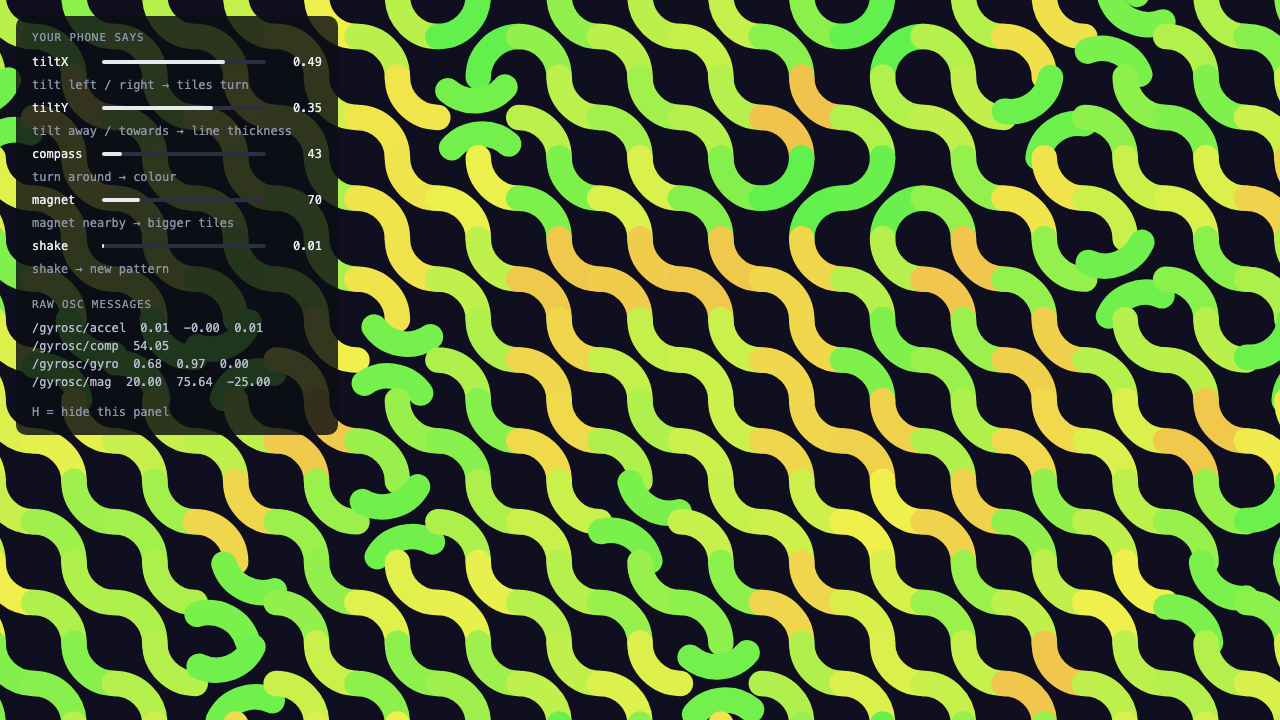
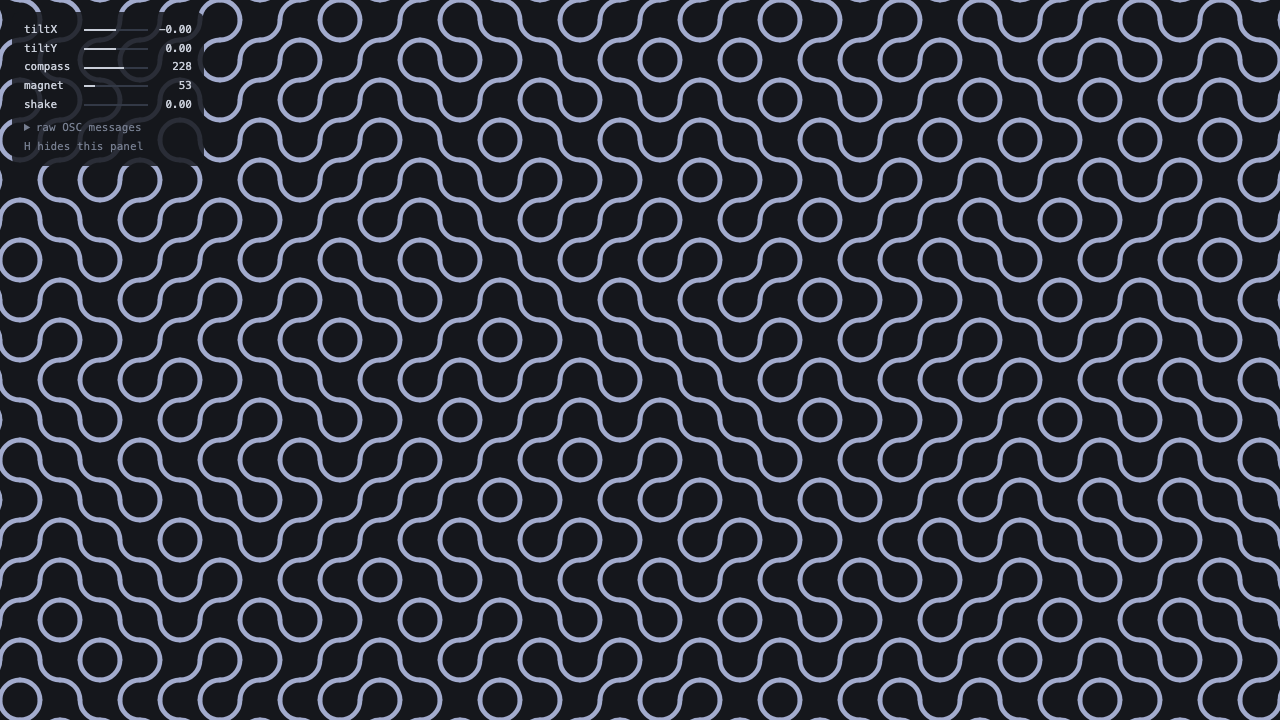
Make the sketch and data panel calmer and smaller
Thin single-colour lines on a plain dark background replace the thick
multi-colour strokes. Tiles now glide to a full quarter turn and rest
there, so the pattern stays connected when the phone is still. The
panel shrinks to five compact rows with the raw messages folded away.

diff --git a/static/sketch.js b/static/sketch.js
@@ -17,16 +17,17 @@ const ctx = canvas.getContext('2d');
 
 let pattern = 1;       // which random pattern we are showing
 let lastShake = 0;
+const turns = {};      // how far each tile is turned right now (0 = not, 1 = a quarter turn)
 
 function draw() {
   const width = window.innerWidth;
   const height = window.innerHeight;
 
   // ---------- phone data → picture. Change these lines! ----------
-  const turned    = map(phone.tiltX, -0.7, 0.7, -0.05, 1.05);  // how many tiles are turned (0 = none, 1 = all)
-  const thickness = map(phone.tiltY, -0.7, 0.7, 0.06, 0.4);    // line thickness (1 = as wide as a tile)
+  const turned    = map(phone.tiltX, -0.7, 0.7, 0, 1);         // how many tiles are turned (0 = none, 1 = all)
+  const thickness = map(phone.tiltY, -0.7, 0.7, 0.04, 0.2);    // line thickness (1 = as wide as a tile)
   const colour    = phone.compass;                             // 0 … 360 around the colour wheel
-  const size      = map(phone.magnet, 30, 300, 60, 200);       // tile size in pixels
+  const size      = map(phone.magnet, 60, 400, 40, 160);       // tile size in pixels
 
   if (phone.shake > 0.5 && Date.now() - lastShake > 600) {     // a shake makes a new pattern
     pattern += 1;
@@ -34,8 +35,9 @@ function draw() {
   }
   // ----------------------------------------------------------------
 
-  ctx.fillStyle = `hsl(${colour + 200}, 35%, 9%)`;
+  ctx.fillStyle = '#15171c';
   ctx.fillRect(0, 0, width, height);
+  ctx.strokeStyle = `hsl(${colour}, 30%, 72%)`;  // a soft colour: 30% is how strong, 72% is how light
   ctx.lineWidth = thickness * size;
   ctx.lineCap = 'round';
 
@@ -46,12 +48,16 @@ function draw() {
   for (let column = -columns; column <= columns; column++) {
     for (let line = -lines; line <= lines; line++) {
       const luck = random(column, line, pattern);              // this tile's own number, 0 … 1
-      const turn = map(turned - luck, -0.05, 0.05, 0, 1);      // 0 = not turned, 1 = quarter turn
+      const wanted = luck < turned ? 1 : 0;                    // should this tile be turned?
+
+      // turn the tile a little towards where it should be, so it glides instead of jumping
+      const name = column + ',' + line;
+      const now = turns[name] ?? wanted;
+      turns[name] = now + (wanted - now) * 0.15;
 
       ctx.save();
       ctx.translate(width / 2 + column * size, height / 2 + line * size);  // go to the tile's centre
-      ctx.rotate(turn * Math.PI / 2);
-      ctx.strokeStyle = `hsl(${colour + luck * 70}, 85%, 62%)`;
+      ctx.rotate(turns[name] * Math.PI / 2);
 
       // two quarter circles, around two opposite corners of the tile
       ctx.beginPath();

diff --git a/static/index.html b/static/index.html
@@ -5,42 +5,38 @@
   <meta name="viewport" content="width=device-width, initial-scale=1">
   <title>Phone → OSC → Truchet tiles</title>
   <style>
-    html, body { margin: 0; height: 100%; overflow: hidden; background: #0b0d12; }
+    html, body { margin: 0; height: 100%; overflow: hidden; background: #15171c; }
     canvas { display: block; width: 100%; height: 100%; }
 
     /* the little data panel in the corner (press H to hide it) */
     #panel {
-      position: fixed; top: 16px; left: 16px; width: 290px;
-      padding: 14px 16px; border-radius: 10px;
-      background: rgba(11, 13, 18, 0.82); color: #e8eaf0;
-      font: 12px/1.5 ui-monospace, Menlo, Consolas, monospace;
+      position: fixed; top: 12px; left: 12px; max-width: 300px;
+      padding: 9px 12px; border-radius: 8px;
+      background: rgba(21, 23, 28, 0.85); color: #c9ced9;
+      font: 11px/1.7 ui-monospace, Menlo, Consolas, monospace;
     }
-    #panel h2 {
-      margin: 0 0 6px; font-size: 11px; font-weight: normal;
-      letter-spacing: 0.08em; text-transform: uppercase; color: #8b93a7;
-    }
-    #panel h2:not(:first-child) { margin-top: 14px; }
-    .row { display: grid; grid-template-columns: 62px 1fr 48px; gap: 8px; align-items: center; }
-    .track { height: 4px; border-radius: 2px; background: #2a3040; }
-    .fill { height: 100%; border-radius: 2px; background: #e8eaf0; }
+    .row { display: grid; grid-template-columns: 52px 64px 36px; gap: 8px; align-items: center; }
+    .track { height: 2px; background: #333946; }
+    .fill { height: 100%; background: #c9ced9; }
     .number { text-align: right; }
-    .does { grid-column: 1 / -1; margin: -3px 0 5px; color: #8b93a7; }
-    #raw { margin: 0; white-space: pre-wrap; word-break: break-all; color: #b4bbcc; }
-    #status { color: #ffd166; }
-    #status b { color: #fff; }
-    .hint { margin-top: 12px; color: #8b93a7; }
+    summary, .hint { color: #767e90; }
+    summary { margin-top: 5px; cursor: pointer; }
+    #raw { margin: 2px 0 0; white-space: pre-wrap; color: #9aa2b3; }
+    #status { margin-top: 5px; color: #e0b76a; }
+    #status:empty { display: none; }
   </style>
 </head>
 <body>
   <canvas id="canvas"></canvas>
 
   <div id="panel">
-    <h2>Your phone says</h2>
     <div id="values"></div>
-    <h2>Raw OSC messages</h2>
-    <pre id="raw"></pre>
+    <details>
+      <summary>raw OSC messages</summary>
+      <pre id="raw"></pre>
+    </details>
     <div id="status"></div>
-    <div class="hint">H = hide this panel</div>
+    <div class="hint">H hides this panel</div>
   </div>
 
   <script src="static/phone.js"></script>   <!-- gets the data  -->

diff --git a/static/phone.js b/static/phone.js
@@ -98,17 +98,17 @@ const rows = [
   ['shake',    0,   1, 'shake → new pattern'],
 ];
 
+// one line per number: name, bar, value (hover over a line to read what it does)
 document.getElementById('values').innerHTML = rows.map(([name, low, high, does]) => `
-  <div class="row">
+  <div class="row" title="${does}">
     <span>${name}</span>
     <div class="track"><div class="fill" id="fill-${name}"></div></div>
     <span class="number" id="number-${name}"></span>
-    <span class="does">${does}</span>
   </div>`).join('');
 
 function showValues() {
   for (const [name, low, high] of rows) {
-    const value = phone[name];
+    const value = Math.abs(phone[name]) < 0.005 ? 0 : phone[name];  // show 0.00, never -0.00
     const percent = clamp((value - low) / (high - low), 0, 1) * 100;
     document.getElementById('fill-' + name).style.width = percent + '%';
     document.getElementById('number-' + name).textContent = value.toFixed(high > 1 ? 0 : 2);
@@ -134,7 +134,7 @@ function clamp(value, low, high) {
 
 document.addEventListener('keydown', event => {
   const panel = document.getElementById('panel');
-  if (event.key === 'h') panel.hidden = !panel.hidden;
+  if (event.key.toLowerCase() === 'h') panel.hidden = !panel.hidden;
 });
 
 askForData();

diff --git a/README.md b/README.md
@@ -63,7 +63,7 @@ python fake_phone.py
 | Hold it near a magnet | `phone.magnet` (about 50, up to hundreds) | tile size |
 | Shake it | `phone.shake` (0 … 1) | new pattern |
 
-Press **H** to hide the panel.
+The small panel in the corner shows these numbers live. Press **H** to hide it.
 
 ## 4. Make it your own
 
@@ -71,10 +71,10 @@ Open `static/sketch.js`. Near the top there are a few lines that connect the
 phone to the picture:
 
 ```js
-const turned    = map(phone.tiltX, -0.7, 0.7, -0.05, 1.05);
-const thickness = map(phone.tiltY, -0.7, 0.7, 0.06, 0.4);
+const turned    = map(phone.tiltX, -0.7, 0.7, 0, 1);
+const thickness = map(phone.tiltY, -0.7, 0.7, 0.04, 0.2);
 const colour    = phone.compass;
-const size      = map(phone.magnet, 30, 300, 60, 200);
+const size      = map(phone.magnet, 60, 400, 40, 160);
 ```
 
 Change them, save, and reload the page (no need to restart `app.py`). Some ideas:
@@ -85,7 +85,8 @@ Change them, save, and reload the page (no need to restart `app.py`). Some ideas
   `phone` object.
 
 Every message the phone sends is also in `phone.raw`, exactly as it arrived,
-for example `phone.raw['/gyrosc/gyro']`. The panel on the page lists them all.
+for example `phone.raw['/gyrosc/gyro']`. Click "raw OSC messages" in the panel
+to see them all.
 
 ## The files
 
@@ -110,6 +111,6 @@ for example `phone.raw['/gyrosc/gyro']`. The panel on the page lists them all.
 - **A direction feels backwards**
   Put a minus sign in front of that value in `translate()` in `static/phone.js`.
 - **You use another OSC app and nothing moves**
-  The app works if you can see its messages in the "raw OSC messages" list.
-  Every app names its messages differently, so put the names you see there
-  into `translate()` in `static/phone.js`.
+  Click "raw OSC messages" in the panel. If messages show up there, the
+  connection works. Every app names its messages differently, so put the
+  names you see there into `translate()` in `static/phone.js`.
